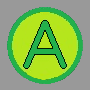
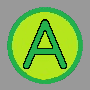
aボタン変更

diff --git a/DxLib_TGS2025/Src/Scene/StageSelect/StageSelectScene.cpp b/DxLib_TGS2025/Src/Scene/StageSelect/StageSelectScene.cpp
@@ -36,7 +36,7 @@ void StageSelectSceneInit(void)
 	stageselect.array_y = 0;
 
 	//ボタンの画像拡大率の初期化
-	stageselect.Abutton_rate = 0.15f;
+	stageselect.Abutton_rate = 0.9f;
 	stageselect.rate_num = 0.1;
 
 	stageselect.flag = true;
@@ -330,13 +330,13 @@ void NumTroutDraw(void)
 void SelectButtonDraw(void)
 {
 	
-	if (stageselect.Abutton_rate > 0.15)
+	if (stageselect.Abutton_rate > 0.9)
 	{
-		stageselect.rate_num = -0.0008f;
+		stageselect.rate_num = -0.005f;
 	}
-	else if (stageselect.Abutton_rate < 0.10)
+	else if (stageselect.Abutton_rate < 0.7)
 	{
-		stageselect.rate_num = 0.0008f;
+		stageselect.rate_num = 0.005f;
 	}
 	stageselect.Abutton_rate += stageselect.rate_num;
 	/*DrawRotaGraph(640, 340, stageselect.Abutton_rate, 0.0, stageselect.Abutton, TRUE);*/
